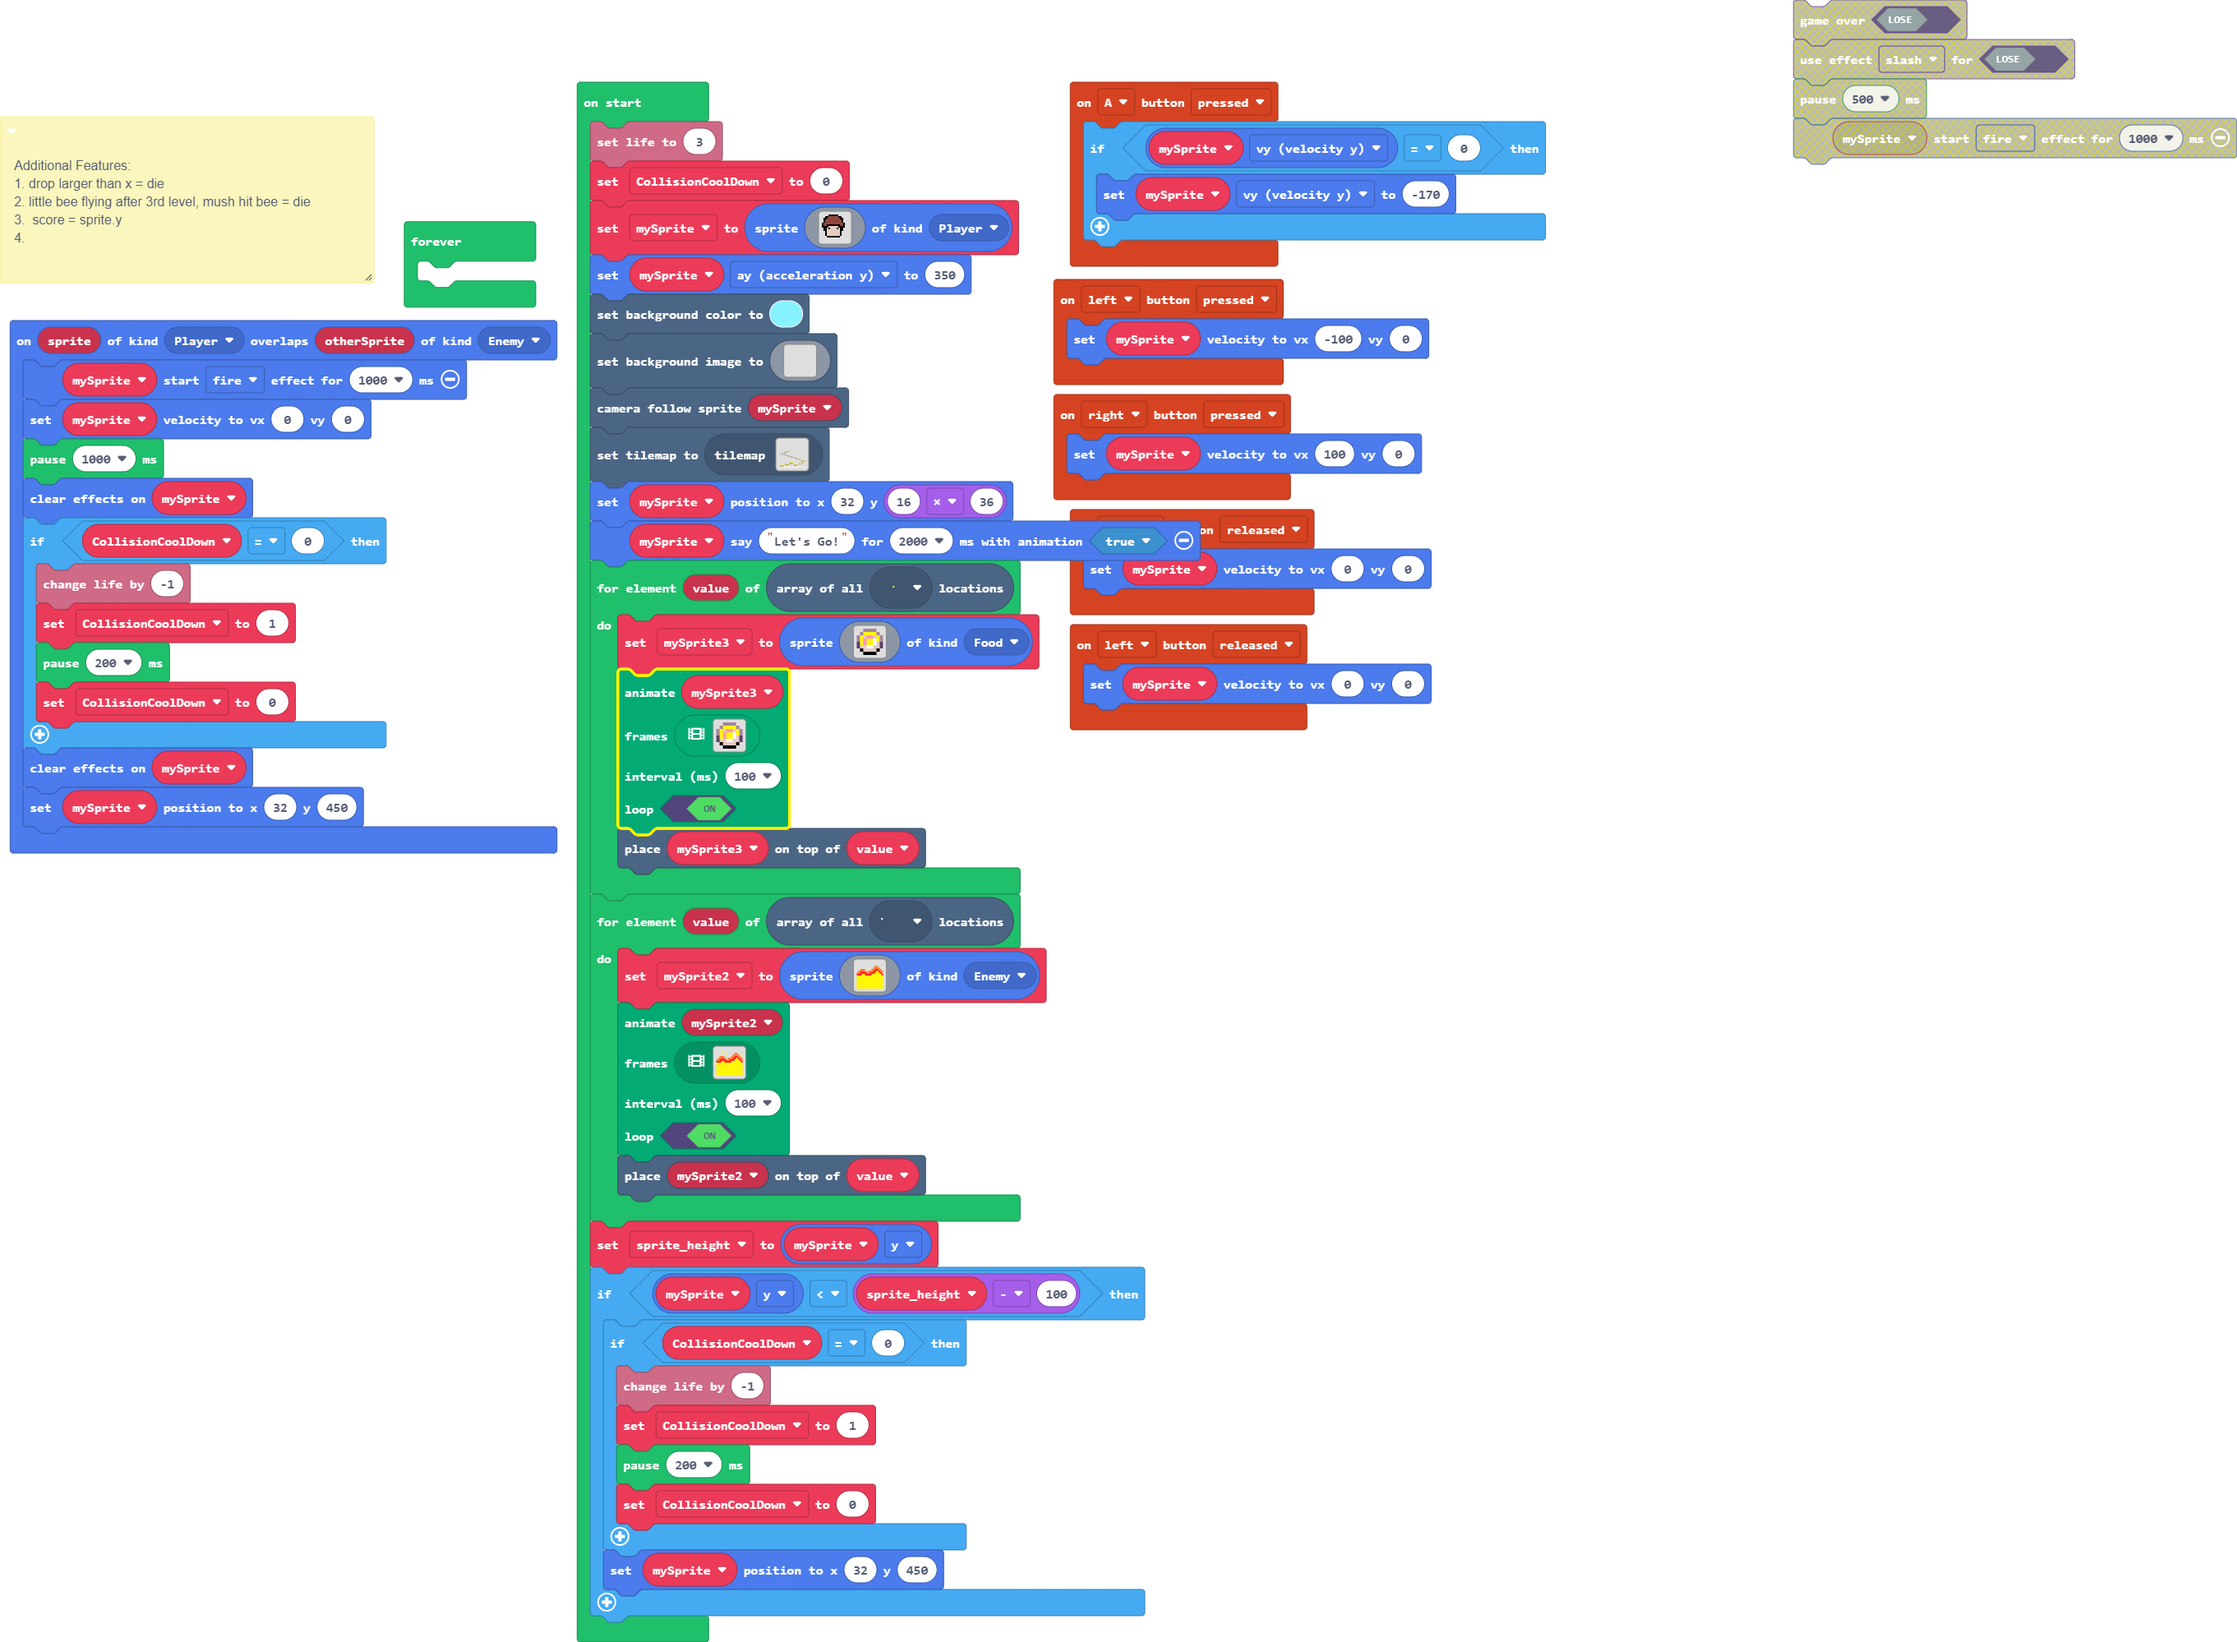
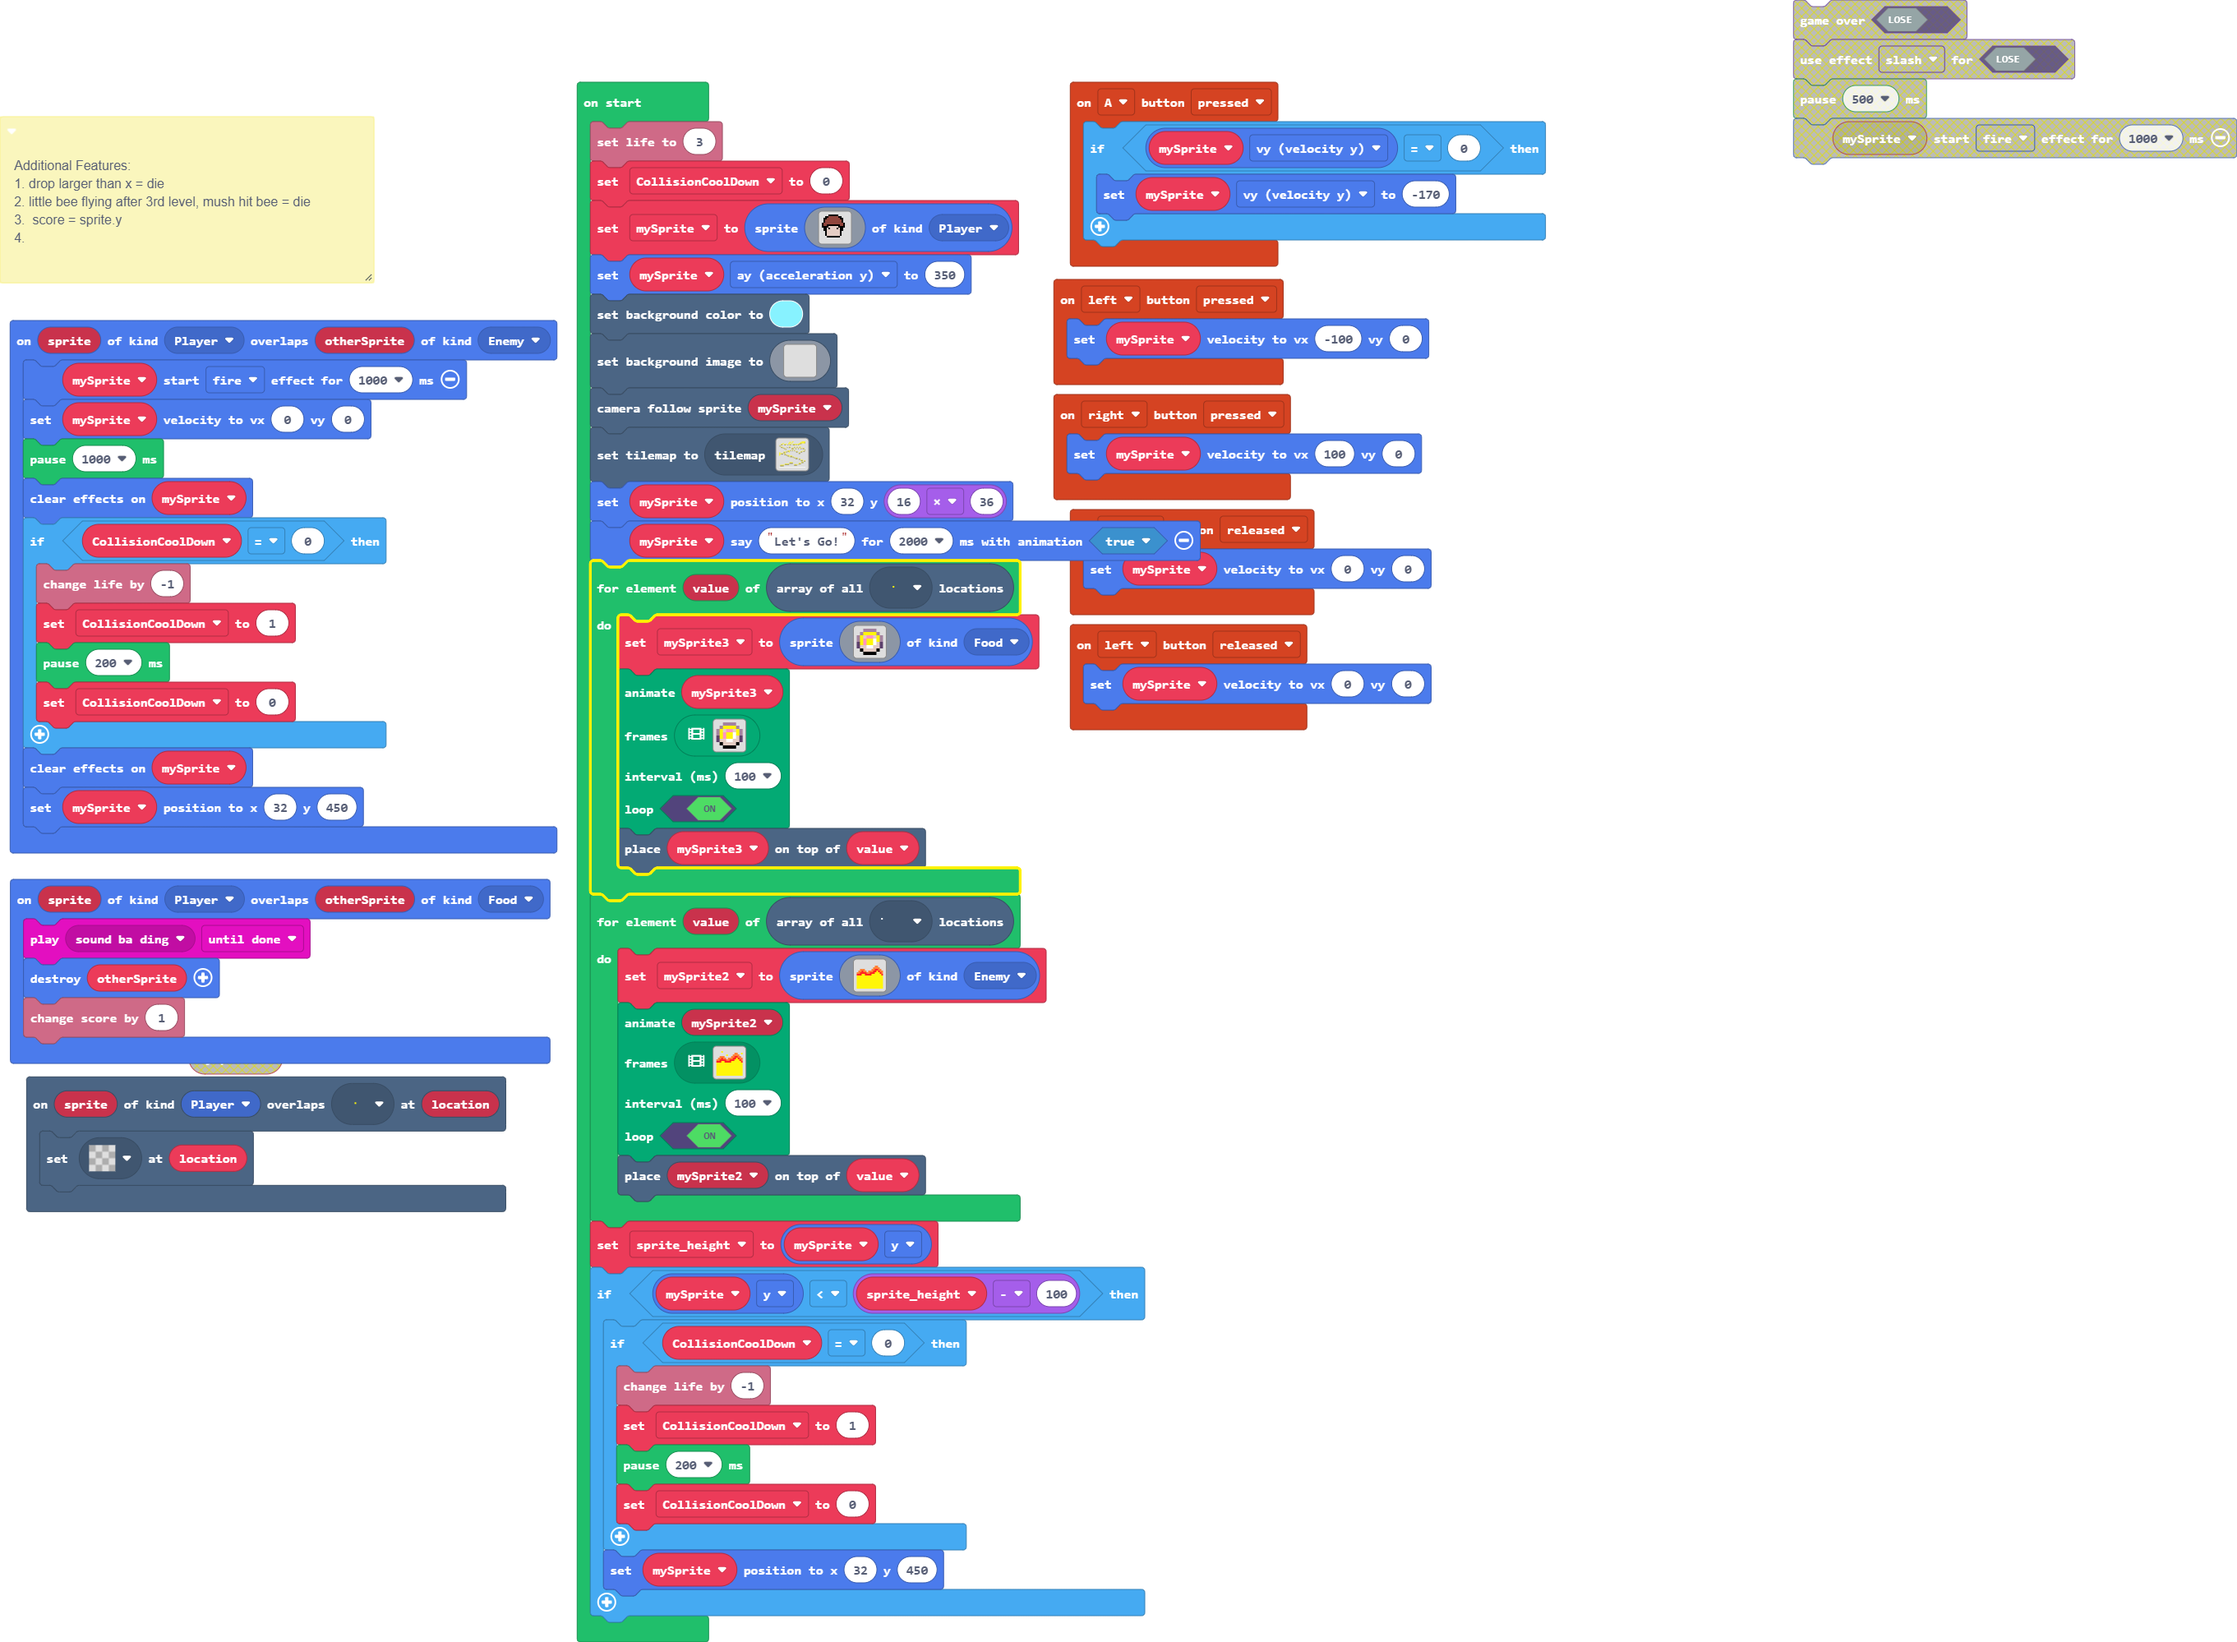
Update main.blocks, main.ts, tilemap.g.jres, tilemap.g.ts

Changed region(s): [[0.0, 0.5275, 0.2498, 0.7447], [0.1561, 0.1241, 0.2498, 0.1862], [0.281, 0.5275, 0.4372, 0.5586]]

diff --git a/tilemap.g.ts b/tilemap.g.ts
@@ -54,26 +54,26 @@ namespace myTiles {
 . . . . . . . . . . . . . . . . 
 `, [myTiles.transparency16], TileScale.Sixteen);
             case "Supergood":
-            case "level2":return tiles.createTilemap(hex`2800280000000000000000000000000000000000000000000000000000000000000000000000000000000000000000000000000000000000000000000000000000000000000000000000000000000000000000000000000000000000000000000000000000000000000000000000000000000000000000000000000000000000000000000000000000000000000000000000000000000000000000000000000000000000000000000000000000000000000000000000000000000000000000000000000000000000000000000000000000000000000000000000000000000000000000000000000000000000000000000000000000000000000000000000000000000000000000000000000000000000000000000000000000000000000000000000000000000000000000000000000000000000000000000000000000000000000000000000000000000000000000000000000000000000000000000000000000000000000000000000000003000000000000000000000000000000000000000000000000000000000000000000000000000000000303000000000000000000000000000000000000000000000000000000000000000000000000000000000303000000000000000000000000000000000000000000000000000000000000000000000000000000000000030303000000000000000000000000000000000000000000000000000000000000000000000000000000000303030300000000000000000000000000000000000000000000000000000000000000000000000000000000030300000000000000000000000000000000000000000000000000000000000000000000000000010100000000000000000000000000000000000000000000000000000000000000000000000001000000000000000000000000000000000000000003000000000000000000000000000001010100000000000000000000000000000000000000000000030000000000000000000000000000000000000000000000000000000000000000000000000000000300000000000000000000010101000000000000000000000000000000000000000000000000000000030000000000000000000000000000010100000000000000000000000000000000000000000000000300000000000000000000000000000000000100000000000000000000000000000000000000000003000000000000000000000000000000000000000101000000000000000000000000000000000000030000000000000000000000000000000000000000000000010101000000000000000000000000000003000000000000000000000000000000000000000000000000000001000000000000000000000000030000000000000000000000000000000000000000000000000000000001000000000000000000000300000000000000000000000000000000000000000000000000000000000001010100000000000000000000000000000000000000000000000000000000000000000000000000000000000001010000000000000000000000000000000000000000000000000000000000000000000000000000000000000000000000000000000000000000000000000000000000000000000000000000000000000000000101010000040400000000000000000000000000000000000000000000000000000000000000000000000000000101000000000000000000000000000000000000000000000000000000000000000000000404040000000000000000000000000000000000000004040404040000000000000000000000000001010100000000000000000000000000000000000000010101010100000000000000000004040400000000000000000000000000000000040404040404000000000000000000000000000000010101000000000000000000000000000004000101010101010000000000000000040404040004000000000000000000000000000404040404030300000000000000000000000000000101010100000000000000000000000000000001010101010000000000000000000000000000000000000000000000000000000000000000000000000000000000000000000000000000000000000000000000000000000000000000000000000002020202020202020202020202020202020202020202020202020202020202020202020202020202`, img`
+            case "level2":return tiles.createTilemap(hex`2800280000000000000000000000000000000000000000000404000000000000000000000000000404040404000000000000000000000000000000000404000004000000000000000000000000040404040404040000000000000000000000000000000404000004000000000000000000000000040404040404040100000000000404000000000000000404000004000000000000000000000004040401000000000000000000040400000004040404000004000004000000040404040404040404040100000000000000000000000101000000010100000001000001010000000101010000010000010000000000000000000000040000000000000000000000000000000000000000000000000000000000000000000000000000000100000000000000000000000000000000000000000000000000000000000000000000000000000000000404000000000000000000000404000000000000040000000400000004040000000000000003000001010004000000000001000001010000000000000100000001000000010000000000000000000303000000010004000000000000000000000404040000000400000004000000040000040400000000000303000000010004000000000000000001010100000001000000010000000100000101000000000000000000030303010000000000000000000000000000000000000000000000000000000004000000000000000000000303030300000004000004000004000000000000000000000000000000010000000000000000000000000004040400010000010000010000000000000000000000000400040000000000000000000000000400010104000000000000000000000404000000000004040000010100000000000000000404040001000000040000000000000000000001010000000003010100000000000404000000000001010400000000000000000000000000000000000000000404030000000000000004040004040400000000000000000000000000000000000000000000000001010300000000000000040400010101000004040000000000000000000000000000000000000000000000030000000000000404000000000000010100040000000000000000000000000000000000000000000300000000000004000000000000000000000100040404000000000000000000000000000000000003000000000000000000000000000000000000000101000004040400000000000000000000000000030000000000000000000000000000000000000000000400010101000400000000000000000000000003000000000000000000000000000000000000000000000000000001000400000000000000000000030000000000000000000000000000000000000000000000000000000001000404040000000000000300000000000000000000000000000000000000000000000000000000000001010100000004000000000000000000000000000000000000000000000000000000000000000000000000000001010000000000000000000000000000000000000000000000000000000000000000000000000000000000040404000000000000000000000000000000000000000000000000000000000000000000000000000101010000040400000000000000000000000000000000000000000000000000000000000000000000000000000101000000000000000000000000000000000000000000000000000000000000000000000404040000000000000000000000000000000000000004040404040000000000000000000000000001010100000000000000000000000000000000000000010101010100000000000000000004040400000000000000000000000000000000040404040404000000000000000000000000000000010101000000000000000000000000000004000101010101010000000000000000040404040004000000000000000000000000000404040404030300000000000000000000000000000101010100000000000000000000000000000001010101010000000000000000000000000000000000000000000000000000000000000000000000000000000000000000000000000000000000000000000000000000000000000000000000000002020202020202020202020202020202020202020202020202020202020202020202020202020202`, img`
 ........................................
 ........................................
+....................................2..2
+.................................2......
+...............................2........
+...22...22...2..22...222..2..2..........
 ........................................
+.2......................................
 ........................................
-........................................
-........................................
-........................................
-........................................
-........................................
-........................................
-........................................
-........................................
-........................................
-........................................
-........................................
-.............22.........................
-...........2............................
+...22.......2..22......2...2...2........
+......2.................................
+........2..........222...2...2...2..22..
+..........2.............................
+.......................................2
+.................2..2..2................
+.............22......................22.
+...........2..............22.....22.....
 .......222..............................
-........................................
+..............................22........
 ...222..................................
 ........22..............................
 ...........2............................

diff --git a/main.ts b/main.ts
@@ -17,6 +17,9 @@ controller.A.onEvent(ControllerButtonEvent.Pressed, function () {
 controller.left.onEvent(ControllerButtonEvent.Pressed, function () {
     mySprite.setVelocity(-100, 0)
 })
+scene.onOverlapTile(SpriteKind.Player, assets.tile`myTile3`, function (sprite, location) {
+    tiles.setTileAt(location, assets.tile`transparency16`)
+})
 controller.right.onEvent(ControllerButtonEvent.Released, function () {
     mySprite.setVelocity(0, 0)
 })
@@ -25,6 +28,11 @@ controller.left.onEvent(ControllerButtonEvent.Released, function () {
 })
 controller.right.onEvent(ControllerButtonEvent.Pressed, function () {
     mySprite.setVelocity(100, 0)
+})
+sprites.onOverlap(SpriteKind.Player, SpriteKind.Food, function (sprite, otherSprite) {
+    music.play(music.melodyPlayable(music.baDing), music.PlaybackMode.UntilDone)
+    sprites.destroy(otherSprite)
+    info.changeScoreBy(1)
 })
 sprites.onOverlap(SpriteKind.Player, SpriteKind.Enemy, function (sprite, otherSprite) {
     mySprite.startEffect(effects.fire, 1000)
@@ -745,6 +753,3 @@ if (mySprite.y < sprite_height - 100) {
     }
     mySprite.setPosition(32, 450)
 }
-forever(function () {
-	
-})
